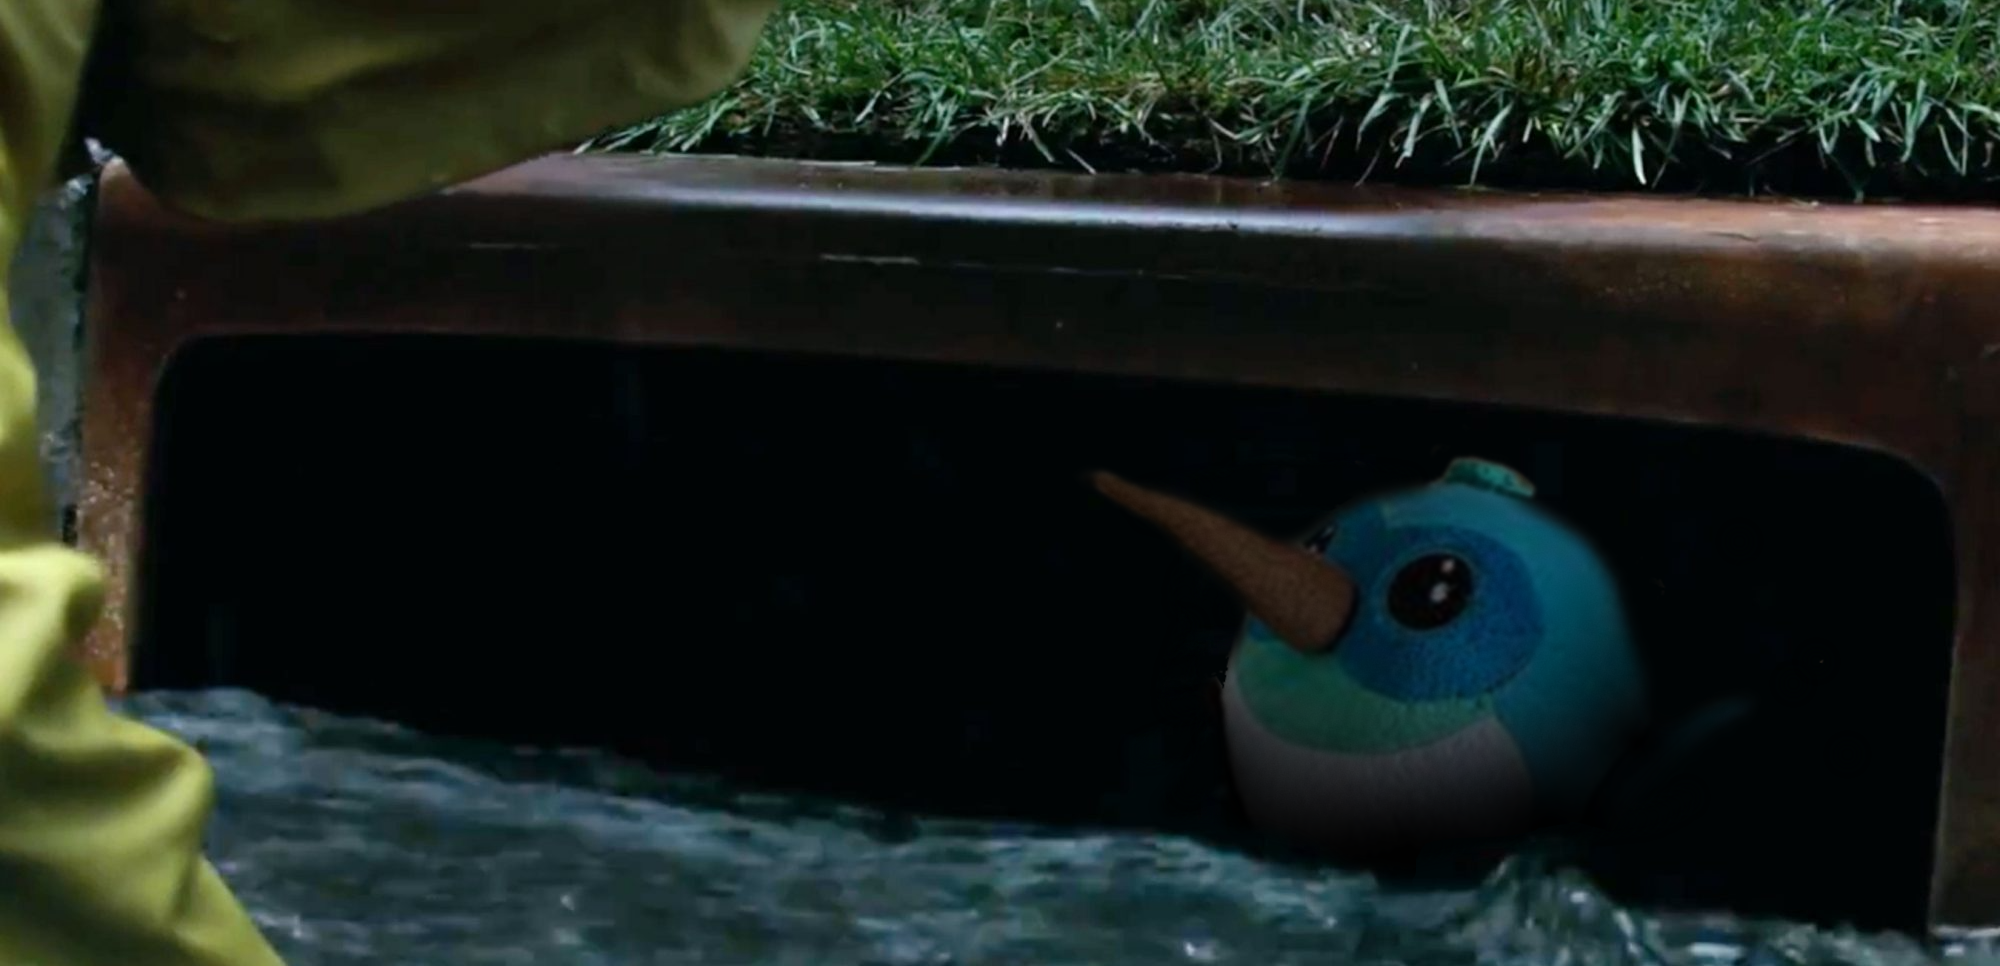
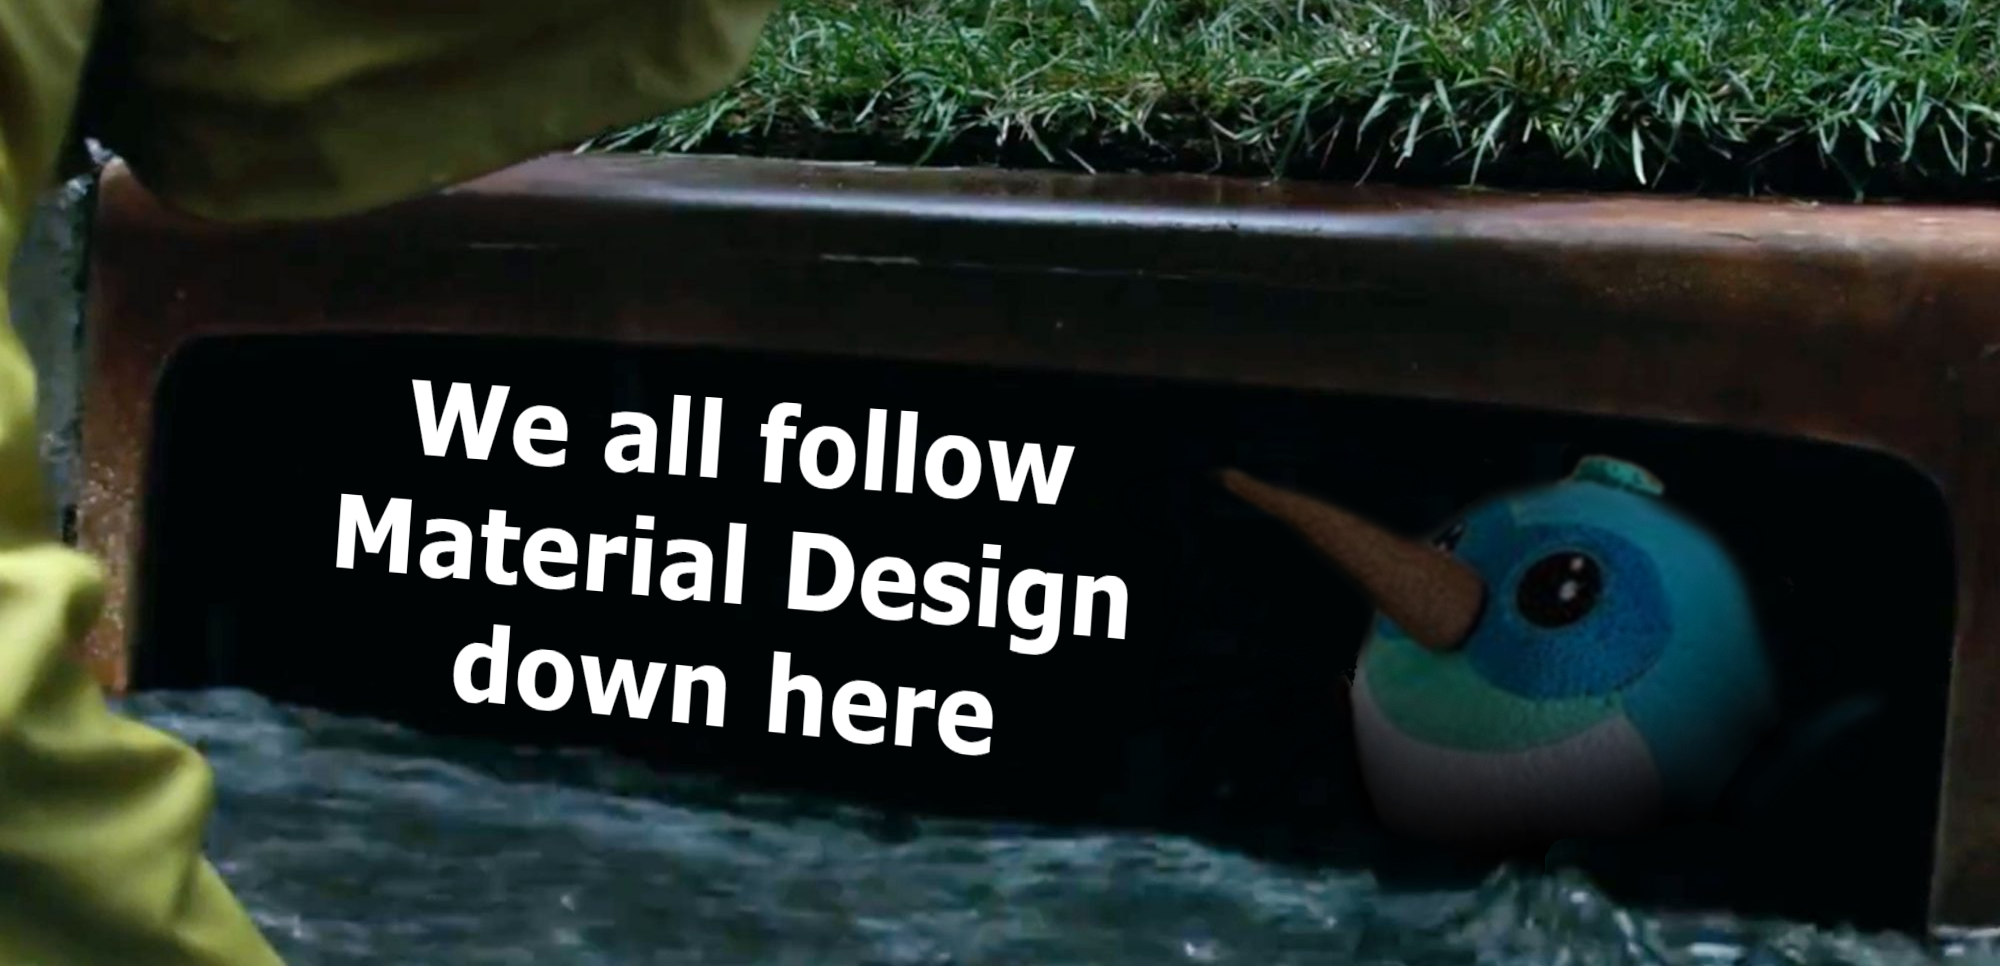
cleaned up readme, updated image

Changed region(s): [[0.155, 0.3727, 0.899, 0.8385], [0.217, 0.6522, 0.496, 0.7764], [0.744, 0.8696, 0.775, 0.9006]]

diff --git a/lib/src/gap.dart b/lib/src/gap.dart
@@ -3,9 +3,6 @@ import 'package:flutter/material.dart';
 /// Creates a `SizedBox` with a height of size corresponding to the layout axis
 /// of the first `Scrollable`, `Row` or `Column` above this widget.
 class Gap extends StatelessWidget {
-  /// I have to document the constructor or else I lose out on those sweet sweet
-  /// pub points. But this is stupid. The default constructor docs are basically
-  /// always redundant with the class docs.
   const Gap({super.key, required this.size});
 
   /// The size of the gap.

diff --git a/README.md b/README.md
@@ -4,20 +4,20 @@ Ensure all visual gaps between you widgets are consistent, adapted to the axis d
 ## Core Features
 
 Provides a `Gutter` and `Margin` that correspond to Material
-Design's [Responsive Layout system](https://m2.material.io/design/layout/responsive-layout-grid.html#columns-gutters-and-margins)
-.
+Design's [Responsive Layout system](https://m2.material.io/design/layout/responsive-layout-grid.html#columns-gutters-and-margins).
 
-These classes:
+Gutters and margins:
 
-1. Are sized according to Material design's adaptive break points
-2. Find their nearest `Scrollabe`, `Column` or `Row` ancestor and create a vertical gap for vertical ancestors,
-   horizontal for horizontal ancestors
-
-For more flexibility, you can also use an extension on `BuildContext` to reference the gutter and margin sizes
-directly: `context.gutter`, `context.margin`.
+1. Create a vertical gap in vertical layouts (`Column`, vertical `Scrollable`) and a horizontal gap in horizontal
+   layouts (`Row`, horizontal `Scrollable`).
+2. Size the gap according to the current screen size and Material Design's corresponding break point definition (small
+   gap on small screens, larger gap on large screens)
 
 `GutterSmall`, `GutterTiny` and `GutterLarge` all provide gaps that are factors of the base gutter size for situations
 where larger or smaller gaps are more appropriate.
+
+For more flexibility, you can also use the provided extension on `BuildContext` to reference the gutter and margin sizes
+directly (`context.gutter`, `context.margin`) or create a `Gap` with a manually set size.
 
 ## Example
 
@@ -26,23 +26,22 @@ Without `flutter_gutter`
 return Column(
   chilren: [
     const Text('I hate using sized box.'),
-    // I have to manually specify that I want a vertically aligned gap.
-    // And I have to manually set an arbitrary size for the gap.
     SizedBox(height: 10),
     const Text('If only there were a better way...'),
   ],
 );
 ```
+You have to manually specify the height and provide a gap size yourself.
 
 With `flutter_gutter`
 ```dart
 return Column(
   chilren: [
     const Text('I hate using sized box.'),
-    // Gutter identified that it's nearest relevant ancestor was a column, so it creates a vertical gap!
-    // It expands and contracts according to Material Design's adaptive breakpoint definitions so it looks good on all screen sizes!
     Gutter(),
     const Text('And now I don\'t have to!'),
   ],
 );
 ```
+The `Gutter` widget identifies it's in a vertical layout (`Column`) and automatically creates a vertical gap. It also
+looks up the screen size and sizes the gap accordingly so you don't have to specify a size manually.

diff --git a/CHANGELOG.md b/CHANGELOG.md
@@ -1,3 +1,14 @@
 ## [0.1.0] - 05/06/2023
 
 * Initial release.
+
+## [0.1.1] - 05/06/2023
+
+* Added fun banner image.
+* Fixed pub score issues.
+
+## [0.1.2] - 05/07/2023
+
+* Made banner image more fun.
+* Improved docs wording
+
